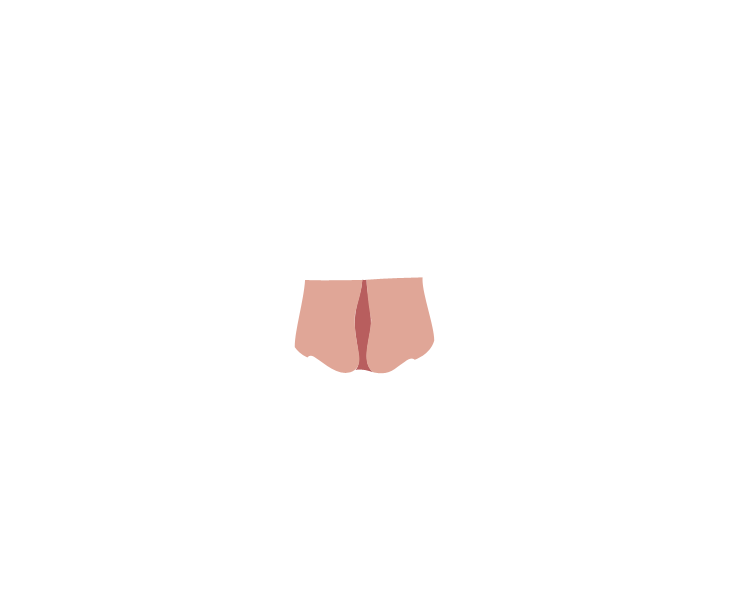
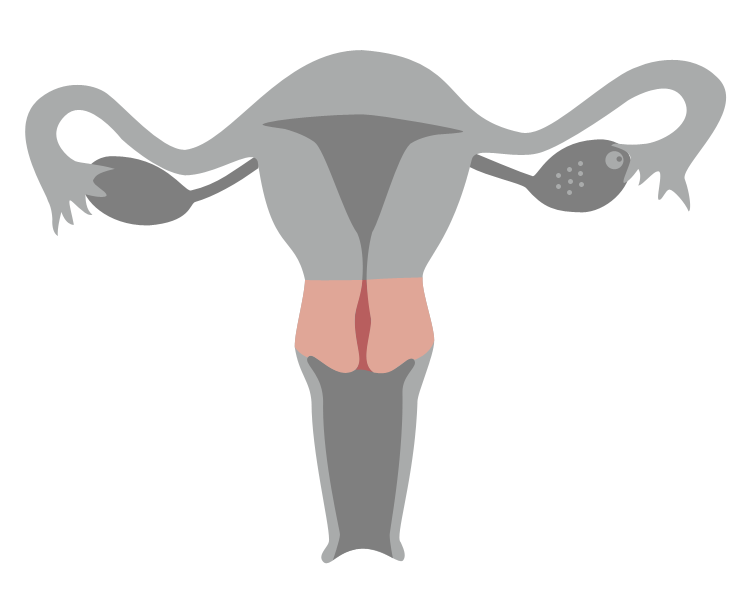
changed images for roll-over repro diagram

Changed region(s): [[0.0307, 0.06, 0.9813, 0.48], [0.3987, 0.57, 0.5827, 0.96]]

diff --git a/learn.html b/learn.html
@@ -6,8 +6,8 @@ title: Learn - Groove
 
 <div class="white-background">
 	<div class="container">
-		<h1 class="about-header gray-dark">Learn about the female reproductive system</h1>
-		
+		<h1 class="gray-dark">Learn about the female reproductive system</h1>
+		<img class="uterus" src="/img/reproductive-system-bw.png" />
 
 	</div><!--.container-->
 </div><!--.white-background-->

diff --git a/css/style.css b/css/style.css
@@ -663,6 +663,12 @@ div.book-image-container p.small-text {
   margin-bottom: 15px;
 }
 
+/* learn.html styles */
+.uterus {
+  margin-top: 10px;
+}
+
+
 /* mobile navigatron */
 .mobile-nav-button {
   display: none;
